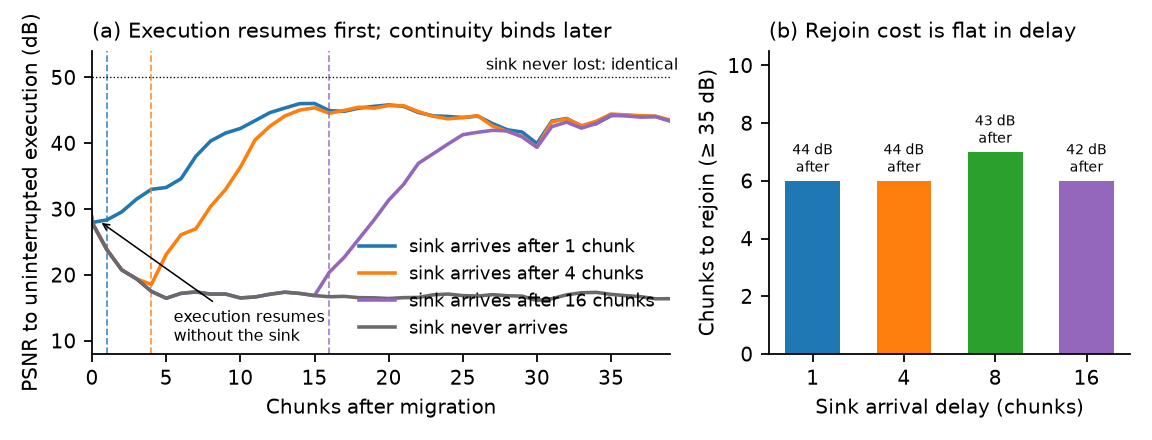
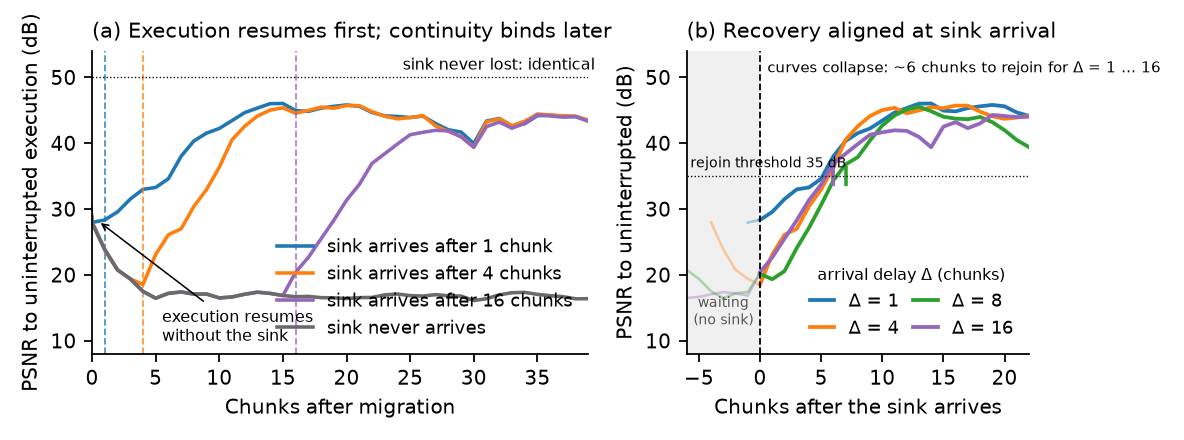
Fig. 3(b): recovery curves aligned at sink arrival (collapse across delays)

diff --git a/tools/make_motivation_figures.py b/tools/make_motivation_figures.py
@@ -175,7 +175,7 @@ def fig3(out: Path, tau: float = 35.0):
     raw = ROOT / "results/state_migration/mechanism/ablation_raw.csv"
     delays = [(1, "d1"), (4, "d4"), (8, "d8"), (16, "d16")]
     cv = curves(raw, [f"ph_zero_{d}" for d, _ in delays] + ["ph_zero_noswap", "repeat"])
-    fig, (ax, bx) = plt.subplots(1, 2, figsize=(7.2, 2.75), gridspec_kw={"width_ratios": [1.6, 1.0]})
+    fig, (ax, bx) = plt.subplots(1, 2, figsize=(7.4, 2.75), gridspec_kw={"width_ratios": [1.45, 1.0]})
     for d, key in delays:
         if d == 8:
             continue  # keep (a) readable; 8 appears in (b)
@@ -191,19 +191,27 @@ def fig3(out: Path, tau: float = 35.0):
     ax.set_xlim(0, 39); ax.set_ylim(8, 54)
     ax.legend(loc="lower right", frameon=False)
     ax.set_title("(a) Execution resumes first; continuity binds later", loc="left")
-    # (b) rejoin time and settled continuity vs. arrival delay
-    ds, rejoin, settled = [], [], []
+    # (b) recovery aligned at the sink's arrival: curves collapse if rejoin cost is independent of the delay
     for d, key in delays:
         x, y = cv[f"ph_zero_{d}"]
-        after = [(k, v) for k, v in zip(x, y) if k >= d]
-        rj = next((k - d for k, v in after if v >= tau), None)
-        ds.append(d); rejoin.append(rj if rj is not None else float("nan")); settled.append(st.mean([v for k, v in after if k >= d + 8]))
-    bx.bar([str(d) for d in ds], rejoin, color=[C[k] for _, k in delays], width=0.6)
-    for i, (r, s_) in enumerate(zip(rejoin, settled)):
-        bx.text(i, r + 0.15, f"{s_:.0f} dB\nafter", ha="center", va="bottom", fontsize=6.5)
-    bx.set_xlabel("Sink arrival delay (chunks)"); bx.set_ylabel(f"Chunks to rejoin (≥ {tau:.0f} dB)")
-    bx.set_ylim(0, max(rejoin) + 3.5)
-    bx.set_title("(b) Rejoin cost is flat in delay", loc="left")
+        rel = [(k - d, v) for k, v in zip(x, y) if -6 <= k - d <= 22 and k >= 0]  # only chunks after migration
+        pre = [(k, v) for k, v in rel if k <= 0]; post = [(k, v) for k, v in rel if k >= 0]
+        bx.plot([k for k, _ in pre], [v for _, v in pre], color=C[key], lw=1.2, alpha=0.35)
+        bx.plot([k for k, _ in post], [v for _, v in post], color=C[key], lw=1.7, label=f"Δ = {d}")
+        rj = next((k for k, v in post if v >= tau), None)
+        if rj is not None:
+            bx.plot([rj], [tau], marker="|", ms=9, mew=1.6, color=C[key])
+    bx.axvspan(-6, 0, color="#f0f0f0", zorder=0)
+    bx.axvline(0, color="k", lw=0.8, ls="--")
+    bx.axhline(tau, color="k", lw=0.6, ls=":")
+    bx.text(-5.7, tau + 0.8, f"rejoin threshold {tau:.0f} dB", fontsize=6.5, va="bottom")
+    bx.text(-3, 12.5, "waiting\n(no sink)", ha="center", fontsize=6.5, color="#555555")
+    bx.text(0.6, 52.5, "curves collapse: ~6 chunks to rejoin for Δ = 1 … 16", ha="left", va="top", fontsize=6.8)
+    bx.set_xlim(-6, 22); bx.set_ylim(8, 54)
+    bx.set_xticks([-5, 0, 5, 10, 15, 20])
+    bx.set_xlabel("Chunks after the sink arrives"); bx.set_ylabel("PSNR to uninterrupted (dB)")
+    bx.legend(loc="lower right", frameon=False, title="arrival delay Δ (chunks)", title_fontsize=7, ncol=2, columnspacing=0.8, handlelength=1.4)
+    bx.set_title("(b) Recovery aligned at sink arrival", loc="left")
     fig.tight_layout()
     fig.savefig(out / "fig3_late_binding.pdf"); fig.savefig(out / "fig3_late_binding.png"); plt.close(fig)
 
